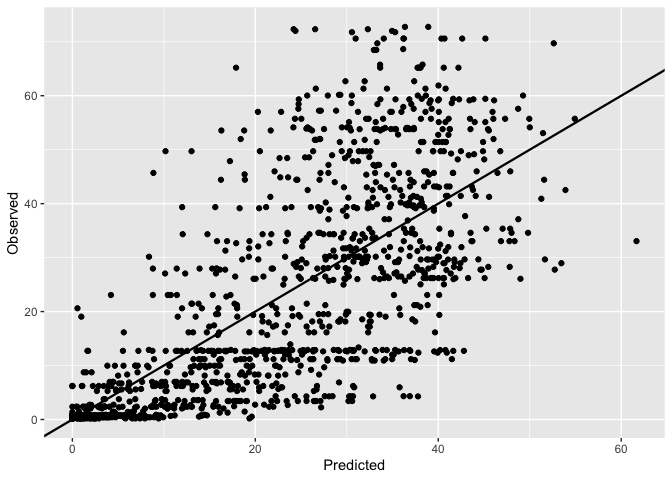
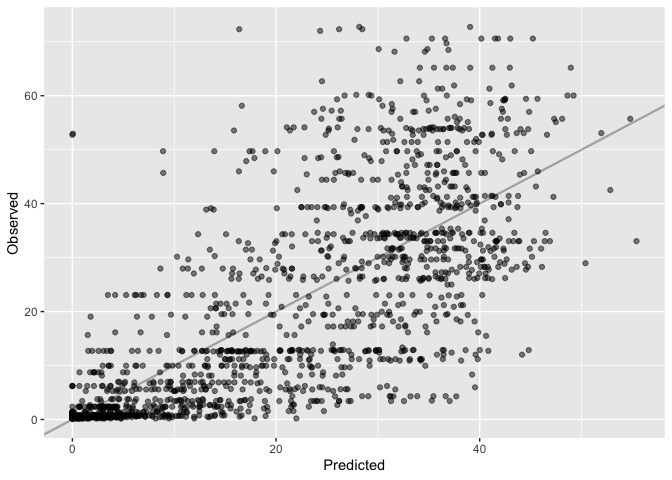
added rendered doc to new edits

diff --git a/shp_label_predictions.md b/shp_label_predictions.md
@@ -1,7 +1,7 @@
 Shapefile to predictions
 ================
-Benjamin Shenouda, Trinetta Chong, Eugenio Noda
-2022-06-09
+Benjamin Shenouda, Trinetta Chong, Eugenio Noda, Tamma Carleton
+2022-06-24
 
 # Making predictions from label data
 
@@ -9,23 +9,24 @@ This notebook demonstrates the steps in the process of making
 predictions starting from your own shapefile label data. The process can
 be divided into 7 steps
 
-1.  Load and prepare the shape file
+1.  Load shape file
 2.  Create a grid according to the desired resolution at which you would
     like to generate predictions
-3.  Create crosswalk from the grid to the polygon, matching each point
-    in the grid to corresponding polygon value
+3.  Create lat-lon crosswalk from the grid to the polygon, matching each
+    point in the grid to corresponding polygon value
 4.  Output the new grid label dataset to a CSV file for use in the
     MOSAIKS API File Query
-5.  Using the label crosswalk from step 3, merge label data with the
-    MOSAIKS features obtained through the API File Query
-6.  With the merged dataset containing point data for labels and
-    features, split dataset into training and testing sets to learn the
-    relationship between the label attribute and the visual imagery
-    captured by the features using a ridge regression
-7.  Use the trained model from the previous step to make predictions on
-    the test subset, evaluating performance and visualizing the results
+5.  Using the lat-lon crosswalk from step 3, merge label data with the
+    MOSAIKS features obtained through the API’s File Query function
+6.  Split merged dataset into train and test sets. In order to learn how
+    visual information in the satellite imagery (as captured by the
+    MOSAIKS features) relates to the label, perform a ridge regression
+    on training dataset.
+7.  Finally, use the trained model to make predictions in the test set.
+    Evaluate performance in the test set by comparing predictions to the
+    label data.
 
-## 1. Preparing shapefile
+## 1. Load shapefile
 
 ``` r
 suppressPackageStartupMessages(library(sf))
@@ -40,7 +41,7 @@ suppressPackageStartupMessages(library(patchwork))
 Prepare directories and files
 
 ``` r
-input_dir <-  './'
+input_dir <-  './' #input path to working directory
 label_shp_name <-  'ecu_soil_erosion_data/ecu_ica_landdegradation_geonode_jul2018.shp'
 target_crs <-  4326 # epsg:4326, the projection of the MOSAIKS grid
 
@@ -60,7 +61,7 @@ label_shp <- st_read(paste0(input_dir, label_shp_name)) # read in shapefile usin
 label_shp_reprojected <- st_transform(label_shp, crs = target_crs) # if needed, reproject shapefile to epsg:4326
 ```
 
-Inspect data
+Inspect shapefile and data
 
 ``` r
 plot(label_shp[,"ErosPr"], axes = T, main= "Soil Erosion") # Plot variable "soil erosion index" ErosPr
@@ -70,23 +71,27 @@ plot(label_shp[,"ErosPr"], axes = T, main= "Soil Erosion") # Plot variable "soil
 
 ## 2. Create grid
 
-In this step we create a grid bound by the bounding box of the label
-data and to the specified resolution. This allows us later to perform a
-spatial join on the datasets to extract label values at lon/lat
-coordinates for use in the API File Query.
+In this step, we create a grid at a desired resolution, and constrain it
+by the bounding box of the label data. The specified resolution
+represents the desired resolution at which predictions are later made.
 
-The target resolution in this step represents the resolution at which
-label predictions are desired in later steps. At
-`target_resolution <- .01`, the resolution will be equal to the MOSAIKS
-dense grid. Resolution can be adjusted to make predictions at finer
-resolution than the native resolution of input label data, up to .01x.01
-degrees.
+A `target_resolution <- .01` signifies a 0.01 x 0.01 degree
+latitude-longitude grid, centered at 0.005 degree intervals (0.01
+degrees is approximately equivalent to 1.11 km at the equator using an
+equal angle grid). This resolution is equivalent to that of the MOSAIKS
+API features.
 
-Increasing the resolution will increase compute time. To take full
-advantage of the platform, resolution should be set to the maximum
-`target_resolution <- .01` degrees. This demo uses a resolution
-`target_resolution <- .05` to save compute time for illustration
-purposes.
+In many cases, one can make predictions at a finer resolution than the
+native resolution of input label data. For example, the native
+resolution of this label is at the canton administrative level (as seen
+in the shapefile plot). However, by overlaying our desired grid onto the
+shapefile and performing a spatial join, we are able to assign label
+values to each unique cell on a 0.01 x 0.01 degree grid.
+
+One should note that increasing the resolution will increase compute
+time. For illustrative purposes and to reduce compute time, this demo
+uses a slightly lower resolution of `target_resolution <- .05`
+(i.e. 0.05 x 0.05 degree grid, centered at 0.025 degree intervals)
 
 ``` r
 target_resolution <- .05 # Set target resolution. A resolution of .01 is equal to the .01 x .01 dense grid of the MOSAIKS API.
@@ -118,8 +123,9 @@ ggplot() +
 
 ## 3. Spatially join the grid with label shapefile
 
-In this step, the generated grid is used to extract label values at
-their lon/lat coordinates.
+In this step, we overlay the generated grid on the shapefile, and
+perform a spatial join in order to assign label values to each unique
+grid cell centroid.
 
 ``` r
 grid_sf <- st_as_sf(grid) # transform grid from sfc object to sf object for merging
@@ -133,45 +139,55 @@ Plot check
 
 ## 4. Output the grid to CSV to obtain features from File Query
 
-    ## Writing layer `ecu_erosion_label' to data source 
-    ##   `./ecu_erosion_label.csv' using driver `CSV'
-    ## Writing 8074 features with 3 fields and geometry type Point.
+# Query MOSAIKS Features from API
 
-# Making predictions
-
-Using the newly created label CSV, features can be obtained from the
-MOSAIKS API file query. Once features are downloaded, they can be merged
-with label data to make predictions
+Using the newly-created .csv file of label data, MOSAIKS features can be
+obtained from the API’s File Query function. Once features are
+downloaded, they can be merged with the label data.
 
 ## 5. Load and merge features and label data
 
-Load and inspect features
+Load and inspect downloaded features.
+
+Notice that each row represents the centroid of a unique grid cell, with
+the first two columns representing latitude and longitude coordinates,
+and subsequent columns representing K features (presently, K = 4000
+features).
 
 ``` r
 #load features (this may take a few mins), and label data
 features <- read.csv(paste0(input_dir,'Mosaiks_features.csv'), header = T, stringsAsFactors = F)
+features <- features[with(features, order(Lat, Lon)),] #sort
 
 head(features, c(5, 10)) # Limit output to 10 columns for sake of space. Actual dataframe contains 4002 columns.
 ```
 
-    ##      Lat     Lon          X        X.1        X.2          X.3        X.4
-    ## 1 -0.925 -77.305 0.06687240 0.12104105 0.08847056 4.674185e-03 0.06932612
-    ## 2 -1.025 -77.305 0.06070738 0.08679849 0.09487789 2.784403e-04 0.05385127
-    ## 3 -1.075 -77.305 0.07271444 0.10513716 0.09843686 1.760430e-05 0.06603616
-    ## 4 -1.125 -77.305 0.07507450 0.10844446 0.10641507 2.963531e-05 0.06811752
-    ## 5 -1.175 -77.305 0.07678302 0.10888809 0.10648130 6.757053e-05 0.07007837
-    ##         X.5        X.6       X.7
-    ## 1 0.1553144 0.10463028 0.5648764
-    ## 2 0.1146531 0.08121043 0.6064681
-    ## 3 0.1374398 0.08497297 0.6135941
-    ## 4 0.1511175 0.09372936 0.6323367
-    ## 5 0.1531822 0.09893279 0.6484400
+    ##         Lat     Lon          X        X.1        X.2          X.3        X.4
+    ## 1132 -4.975 -79.105 0.16587991 0.42999491 0.13084383 0.0547036342 0.24663417
+    ## 1050 -4.975 -79.055 0.13666266 0.25447765 0.13536981 0.0285860952 0.15804757
+    ## 968  -4.975 -79.005 0.10358148 0.17465281 0.11631227 0.0156488381 0.10863219
+    ## 1375 -4.925 -79.255 0.04870118 0.08788871 0.05642445 0.0027059496 0.04756720
+    ## 1294 -4.925 -79.205 0.05220752 0.08975811 0.04581843 0.0007529163 0.05369745
+    ##            X.5        X.6       X.7
+    ## 1132 0.5299929 0.20095651 0.4934956
+    ## 1050 0.3605235 0.18017522 0.6118991
+    ## 968  0.2195943 0.12967739 0.5700755
+    ## 1375 0.1608833 0.08749487 0.3576654
+    ## 1294 0.1631556 0.06835839 0.2847117
 
-Load and inspect label data
+Load and inspect label data.
+
+Similarly, each row in the label data represents the centroid of a
+unique grid cell, with the first column representing our label data
+(soil erosion), and the last two columns displaying latitude and
+longitude coordinates.
 
 ``` r
 label_filename = 'ecu_erosion_label.csv' # filename of the output csv from step 4
 label <- read.csv(paste0(input_dir, label_filename), header = T, stringsAsFactors = F)
+label$lat <- round(label$lat, 3) #3 decimal places
+label$lon <- round(label$lon, 3) #3 decimal places
+label <- label[with(label, order(lat, lon)),] #sort
 
 head(label, 5)
 ```
@@ -183,13 +199,13 @@ head(label, 5)
     ## 4 21.4603 -79.255 -4.925
     ## 5 21.4603 -79.205 -4.925
 
-Merge features spatially with label
+Merge features spatially with label.
 
 Here, we merge our downloaded features (“X”) with our label (“y”) based
-on the location of grid cells. This results in a single dataset with a
-vector of MOSAIKS features associated with each label observation. Each
-row in this dataset represents a label and features for a given
-<u>***0.01 x 0.01 grid cell***</u>. <u>**(resolution according to the
+on the coordinates of the grid cell. This results in a single dataset
+with a vector of MOSAIKS features associated with each label
+observation. Each row in this dataset represents the label value and
+features for a given grid cell <u>**(resolution according to the
 specified grid resolution of the generated label grid)**</u>
 
 ``` r
@@ -204,10 +220,11 @@ print(paste(nrow(df), "observations in merged dataframe"))
 #drop NAs
 num_na <- nrow(df) - nrow(na.omit(df)) # get number of rows with NAs
 df <- na.omit(df) # drop NAs from dataframe
+
 print(paste0(num_na, " rows with NAs dropped. ", nrow(df), " observations in final dataframe."))
 ```
 
-    ## [1] "1220 rows with NAs dropped. 6854 observations in final dataframe."
+    ## [1] "28 rows with NAs dropped. 8046 observations in final dataframe."
 
 ``` r
 head(df, c(5, 10)) # limited to 10 columns for sake of space. Actual dataframe contains 4003 columns
@@ -228,8 +245,8 @@ head(df, c(5, 10)) # limited to 10 columns for sake of space. Actual dataframe c
 
 ## 6. Run a ridge regression of label on MOSAIKS features
 
-This step learns how the visual information in the imagery, as captured
-by the features, relates to the labels.
+This step learns how the visual information in the satellite imagery, as
+captured by the features, relates to the labels.
 
 Before performing a ridge regression, we first split our data into train
 (80%) and test (20%). We will estimate the models on the train set and
@@ -248,7 +265,7 @@ test <- df[-index,] # Create the test data
 label_value <- "ErosPr" # set label attribute name in the dataframe, modify according to dataset
 
 # Create X matricies and y vectors from the train and test sets
-# Note that the glmnet function does not work with dataframes, so we need to create a numeric matrix for the training features 
+# Note that the glmnet function does not work with dataframes. Instead, they need to be converted to  numeric matrices  
 
 X_train <- as.matrix(subset(train, select = -c(get(label_value))))
 y_train <- train[,label_value]
@@ -256,12 +273,14 @@ y_train <- train[,label_value]
 X_test <- as.matrix(subset(test, select = -c(get(label_value))))
 y_test <- test[,label_value]
 
-#save test set lat/lons for later
+#save test set lat/lons for plotting later
 plotting_coords <- subset(test, select = c(lon,lat))
+plotting_coords_train <- subset(train, select = c(lon,lat))
 ```
 
-Within our training dataset, we choose the penalization parameter in the
-ridge regression via k-fold cross-validation (here, k=5).
+Within our training dataset, we choose the penalization parameter
+(i.e. lambda) in the ridge regression via k-fold cross-validation (here,
+k=5).
 
 ``` r
 # Train the ridge regression model, choosing the penalization parameter using cross-validation in the train set.
@@ -274,7 +293,7 @@ optimal_lambda <- cv_ridge$lambda.min
 print(paste0("optimal lambda: ", optimal_lambda))
 ```
 
-    ## [1] "optimal lambda: 1.11481134254125"
+    ## [1] "optimal lambda: 1.11246413414451"
 
 ## 7. Make predictions and evaluate performance
 
@@ -297,12 +316,12 @@ r2 <- (1 - SSE / SST)
 print(paste0('r2: ', r2))
 ```
 
-    ## [1] "r2: 0.574399219105495"
+    ## [1] "r2: 0.566133081589242"
 
 We can also make a scatter plot of labeled data against predictions.
 
 ``` r
-#clip bounds so min value = 0 because we know that treecover cannot be below zero. 
+#clip bounds so min value = 0 because we know that label value cannot be below zero. 
 y_pred[y_pred<0] <- 0
 
 #combine lat/lons with test and predicted values into a dataframe
@@ -311,8 +330,8 @@ names(map_plot) <- c('lon','lat','predicted','observed')
 
 #scatterplot
 ggplot(map_plot, aes(x=y_pred, y=y_test)) + 
-geom_point() +
-geom_abline(intercept = 0, slope = 1, size = 0.8) + # 45 degree line
+geom_point(alpha = 0.5) +
+geom_abline(intercept = 0, slope = 1, size = 0.8, alpha = 0.3) + # 45 degree line
 labs(x = "Predicted", y = "Observed") 
 ```
 
@@ -322,3 +341,26 @@ Finally, we can compare the spatial distribution of label
 (i.e. observed) values with predicted values.
 
 <img src="shp_label_predictions_files/figure-gfm/unnamed-chunk-17-1.png" width="100%" height="100%" />
+Example application: One could predict soil erosion risk at higher
+spatial resolution. For example, areas along the Napo River in east
+Ecuador face a higher risk of soil erosion.
+
+``` r
+#load water areas in ecuador 
+water_shp <- st_read(paste0(input_dir, 'ECU_wat/ECU_water_areas_dcw.shp')) # read in shapefile 
+water_shp_reprojected <- st_transform(water_shp, crs = target_crs) # reproject water layer
+
+#plot  
+ggplot() +
+geom_point(data = map_plot_train, 
+  aes(x=lon, y=lat, color= predicted), 
+  size = 3, alpha = 0.9) + 
+scale_color_distiller(palette = "YlGn", limits = c(0, scale_max)) +
+labs(x = "Longitude", y = "Latitude", title = "Napo River Basin", color = "Soil Erosion") +
+geom_sf(data =label_shp_reprojected, size = 0.3, alpha = 0.01, color = "grey39") +
+geom_sf(data =water_shp_reprojected, size = 0.1, alpha = 0.1, color = "blue1") + #water
+  coord_sf(
+  xlim = c(-78, -75),
+  ylim = c(-1.2, 0),
+)
+```
